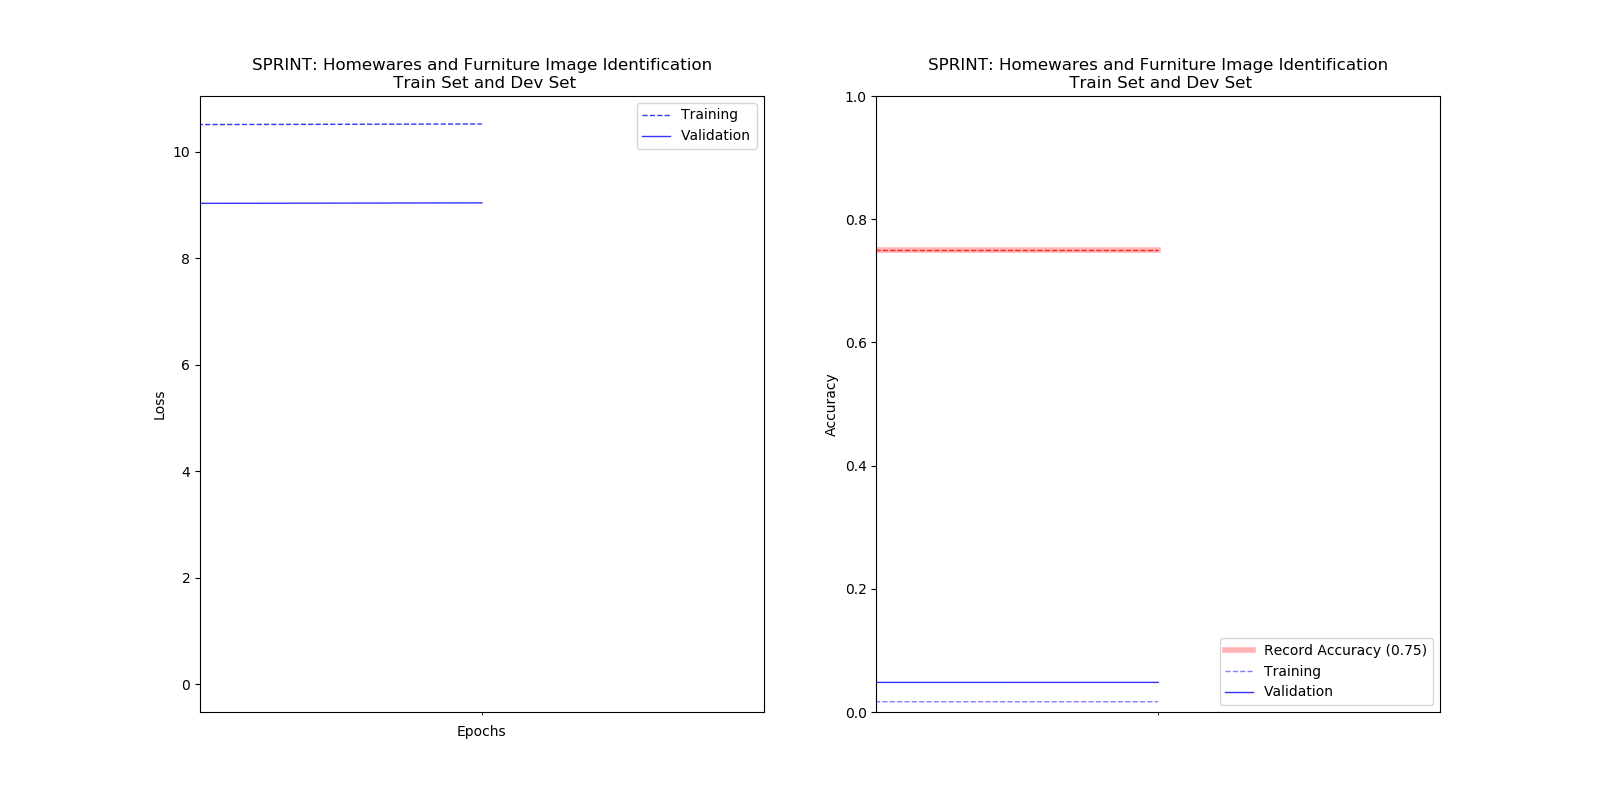
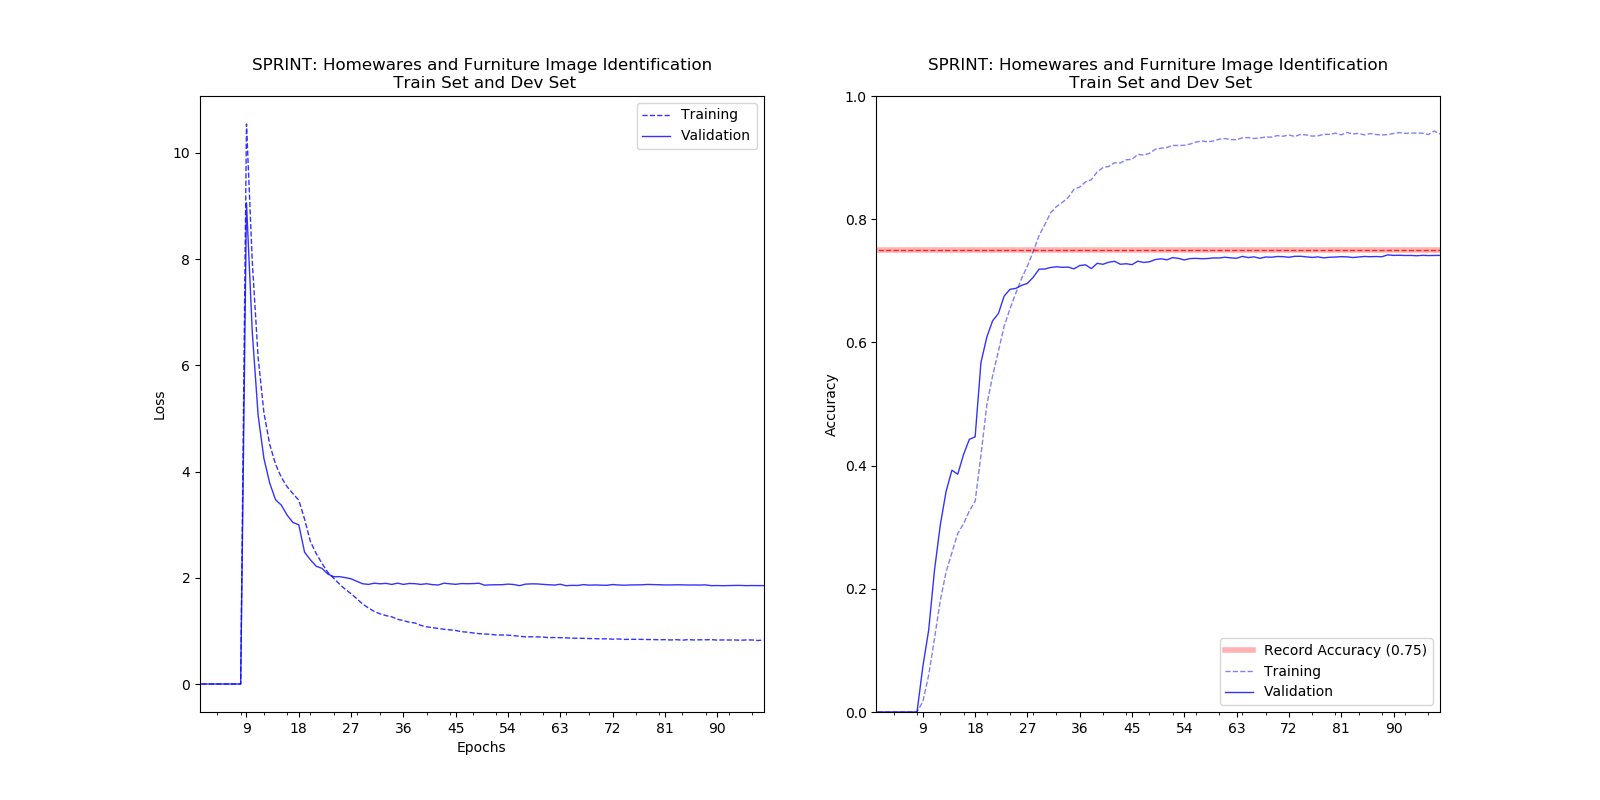
try to recreate resnet 50 as RecoilNet.py

diff --git a/src/RecoilNet.py b/src/RecoilNet.py
@@ -1,0 +1,134 @@
+"""
+Clean and simple Keras implementation of network architectures described in:
+    - (ResNet-50) [Deep Residual Learning for Image Recognition](https://arxiv.org/pdf/1512.03385.pdf).
+    - (ResNeXt-50 32x4d) [Aggregated Residual Transformations for Deep Neural Networks](https://arxiv.org/pdf/1611.05431.pdf).
+
+Python 3.
+"""
+
+from keras import layers
+from keras import models
+
+
+class RecoilNet():
+    #
+    # image dimensions
+    #
+
+    img_height = 299
+    img_width = 299
+    img_channels = 3
+
+    #
+    # network params
+    #
+
+    cardinality = 32
+
+
+    def __init__(self):
+        image_tensor = layers.Input(shape=(img_height, img_width, img_channels))
+        network_output = residual_network(image_tensor)
+
+        model = models.Model(inputs=[image_tensor], outputs=[network_output])
+        print(model.summary())
+
+        return model
+
+    def residual_network(self, x):
+        """
+        ResNeXt by default. For ResNet set `cardinality` = 1 above.
+
+        """
+        def add_common_layers(self, y):
+            y = layers.BatchNormalization()(y)
+            y = layers.LeakyReLU()(y)
+
+            return y
+
+        def grouped_convolution(self, y, nb_channels, _strides):
+            # when `cardinality` == 1 this is just a standard convolution
+            if cardinality == 1:
+                return layers.Conv2D(nb_channels, kernel_size=(3, 3), strides=_strides, padding='same')(y)
+
+            assert not nb_channels % cardinality
+            _d = nb_channels // cardinality
+
+            # in a grouped convolution layer, input and output channels are divided into `cardinality` groups,
+            # and convolutions are separately performed within each group
+            groups = []
+            for j in range(cardinality):
+                group = layers.Lambda(lambda z: z[:, :, :, j * _d:j * _d + _d])(y)
+                groups.append(layers.Conv2D(_d, kernel_size=(3, 3), strides=_strides, padding='same')(group))
+
+            # the grouped convolutional layer concatenates them as the outputs of the layer
+            y = layers.concatenate(groups)
+
+            return y
+
+        def residual_block(self, y, nb_channels_in, nb_channels_out, _strides=(1, 1), _project_shortcut=False):
+            """
+            Our network consists of a stack of residual blocks. These blocks have the same topology,
+            and are subject to two simple rules:
+            - If producing spatial maps of the same size, the blocks share the same hyper-parameters (width and filter sizes).
+            - Each time the spatial map is down-sampled by a factor of 2, the width of the blocks is multiplied by a factor of 2.
+            """
+            shortcut = y
+
+            # we modify the residual building block as a bottleneck design to make the network more economical
+            y = layers.Conv2D(nb_channels_in, kernel_size=(1, 1), strides=(1, 1), padding='same')(y)
+            y = add_common_layers(y)
+
+            # ResNeXt (identical to ResNet when `cardinality` == 1)
+            y = grouped_convolution(y, nb_channels_in, _strides=_strides)
+            y = add_common_layers(y)
+
+            y = layers.Conv2D(nb_channels_out, kernel_size=(1, 1), strides=(1, 1), padding='same')(y)
+            # batch normalization is employed after aggregating the transformations and before adding to the shortcut
+            y = layers.BatchNormalization()(y)
+
+            # identity shortcuts used directly when the input and output are of the same dimensions
+            if _project_shortcut or _strides != (1, 1):
+                # when the dimensions increase projection shortcut is used to match dimensions (done by 1×1 convolutions)
+                # when the shortcuts go across feature maps of two sizes, they are performed with a stride of 2
+                shortcut = layers.Conv2D(nb_channels_out, kernel_size=(1, 1), strides=_strides, padding='same')(shortcut)
+                shortcut = layers.BatchNormalization()(shortcut)
+
+            y = layers.add([shortcut, y])
+
+            # relu is performed right after each batch normalization,
+            # expect for the output of the block where relu is performed after the adding to the shortcut
+            y = layers.LeakyReLU()(y)
+
+            return y
+
+        # conv1
+        x = layers.Conv2D(64, kernel_size=(7, 7), strides=(2, 2), padding='same')(x)
+        x = add_common_layers(x)
+
+        # conv2
+        x = layers.MaxPool2D(pool_size=(3, 3), strides=(2, 2), padding='same')(x)
+        for i in range(3):
+            project_shortcut = True if i == 0 else False
+            x = residual_block(x, 128, 256, _project_shortcut=project_shortcut)
+
+        # conv3
+        for i in range(4):
+            # down-sampling is performed by conv3_1, conv4_1, and conv5_1 with a stride of 2
+            strides = (2, 2) if i == 0 else (1, 1)
+            x = residual_block(x, 256, 512, _strides=strides)
+
+        # conv4
+        for i in range(6):
+            strides = (2, 2) if i == 0 else (1, 1)
+            x = residual_block(x, 512, 1024, _strides=strides)
+
+        # conv5
+        for i in range(3):
+            strides = (2, 2) if i == 0 else (1, 1)
+            x = residual_block(x, 1024, 2048, _strides=strides)
+
+        x = layers.GlobalAveragePooling2D()(x)
+        x = layers.Dense(1)(x)
+
+        return x

diff --git a/src/model_falcon_v2.5.py b/src/model_falcon_v2.5.py
@@ -262,13 +262,16 @@ def plot_hist(history, info_str, epochs=2, augmentation=1, sprint=False):
     majorFormatter = FormatStrFormatter('%d')
     minorLocator = MultipleLocator(minor_ticks)
 
-    # determine how many zero layers there are
-    drop = np.sum([1 if loss == 0 else 0 for loss in history['loss']])
-
-    history['loss'] = history['loss'][drop:]
-    history['val_loss'] = history['val_loss'][drop:]
-    history['acc'] = history['acc'][drop:]
-    history['val_acc'] = history['val_acc'][drop:]
+    # # determine how many zero layers there are
+    # drop = np.sum([1 if loss == 0 else 0 for loss in history['loss']])
+    #
+    # if drop > 1:
+    #     drop -= 1
+    #
+    # history['loss'] = history['loss'][drop:]
+    # history['val_loss'] = history['val_loss'][drop:]
+    # history['acc'] = history['acc'][drop:]
+    # history['val_acc'] = history['val_acc'][drop:]
 
     # correct x axis
     history['loss'] = [0.0] + history['loss']
@@ -336,7 +339,7 @@ def run():
     with open("../data/data_splits.json") as infile:
         data_link_dict = json.load(infile)
 
-    EPOCHS = 1
+    EPOCHS = 10
     AUGMENTATION = 1    # could do 3 epochs of 10 augmentation or 30 of 1 which
                         # provides more data for plots to work with
 
